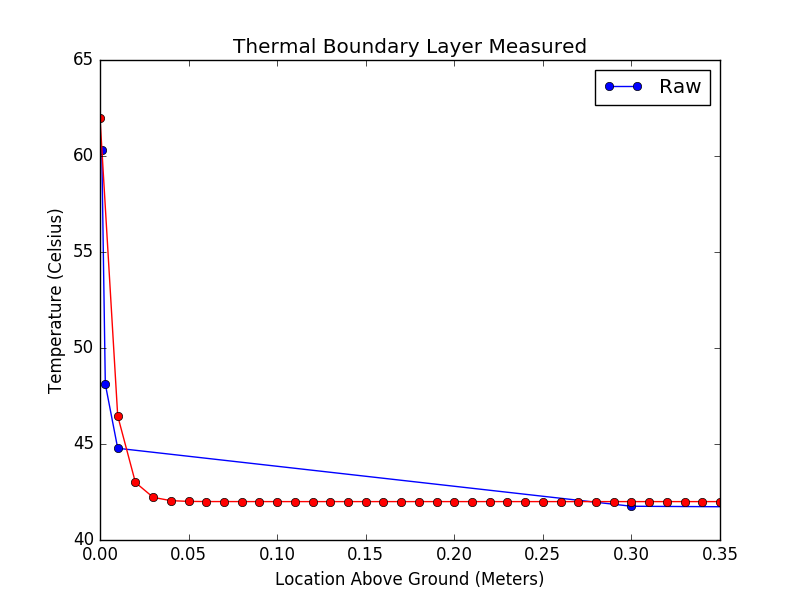
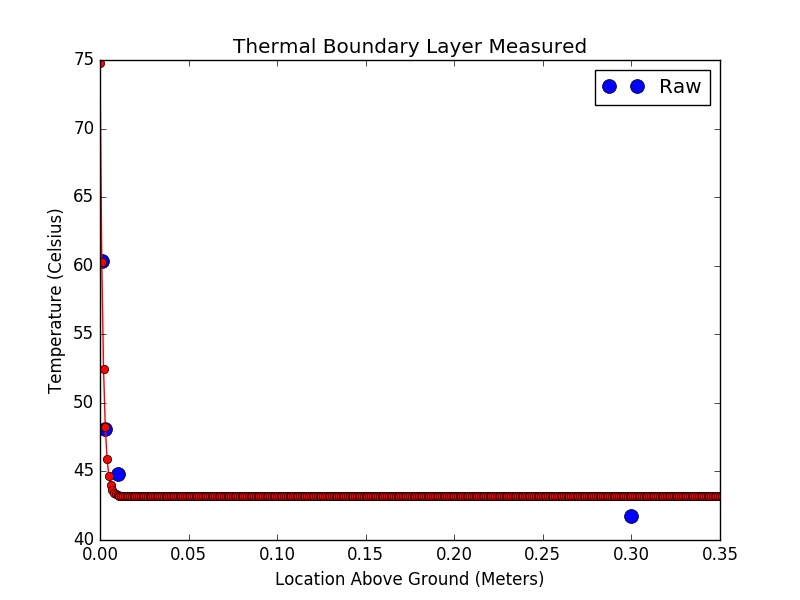
well, thats that

Changed region(s): [[0.0938, 0.18, 0.9062, 0.87], [0.75, 0.12, 0.8125, 0.15], [0.0938, 0.09, 0.125, 0.12]]

diff --git a/disputatio/routines/thermal_boundary_layer/zoom.py b/disputatio/routines/thermal_boundary_layer/zoom.py
@@ -19,47 +19,56 @@ def read_dat():
         values = line.split("\t")
         values = line.split("\t")
         x.append(float(values[0]))
-        print values[1].split("\n")[0]
+        #print values[1].split("\n")[0]
         t.append(float(values[1].split("\n")[0]))
     f.close()
     
     return x,t
 
-def e(x):
-    c = 150.0
-    exxp = 42+20*np.exp(-np.array(x)*c)
-    return exxp
+def e(x, a, b, c):
+    return a * np.exp(-b * x) + c
+
+#def e(x):
+#    c = 240.0
+#    exxp = 42+30*np.exp(-np.array(x)*c)
+#    return exxp
 
 #
 #
 #
 def plot_raw(x,t):
-    mx = 5
+    mx = 4
     order = 4
-    print x[0:mx],t[0:mx]
-    pp = np.poly1d(np.polyfit(x[0:mx],t[0:mx],order))
+    print x[0:mx]
+    print t[0:mx]
+    #pp = np.poly1d(np.polyfit(x[0:mx],t[0:mx],order))
     xx = np.arange(0,x[mx],.001)
+
+    #
+    # find ideal exp coefficients
+    #
+    from scipy.optimize import curve_fit
+    popt, pcov = curve_fit(e, x[0:mx], t[0:mx])
+
+    print popt
 
     #log_lst = np.log(lst)
     #print log_lst
     plt.subplot(1, 1, 1)
-    plt.plot(x,t, 'ko-',color='blue',label='Raw')
+    plt.plot(x,t, 'ko',color='blue',label='Raw',markersize=10)
     plt.title('Thermal Boundary Layer Measured')
     plt.xlabel('Location Above Ground (Meters)')
     plt.ylabel('Temperature (Celsius)')
     plt.legend()
 
-    full=1
-
-    if(full):
-        plt.xlim((0,.35))
-        plt.ylim((40,65))
-    else:
-        plt.xlim((0,2.35))
-        plt.ylim((35,65))
+    plt.xlim((0,.35))
+    plt.ylim((40,75))
         
+    #
+    # http://docs.scipy.org/doc/scipy/reference/generated/scipy.optimize.curve_fit.html
+    #
     # plot exponential
-    plt.plot(xx,e(xx), 'ko-',color='red',label='exponential')
+    plt.plot(xx,e(xx,popt[0],popt[1],popt[2]), 'ko-', color='red',label='exponential')
 
     # plot polynomial:
     #plt.plot(xx,pp(xx), 'ko-',color='red',label='fit')
@@ -69,7 +78,13 @@ def plot_raw(x,t):
     #
     #plt.show()
     plt.savefig('fit_zoomed.png')
-    print 'Peak velocity modelled is: ',e(0)
+
+    # unzoom
+    plt.xlim((0,2.35))
+    plt.savefig('fit.png')
+
+    print 'Peak velocity modelled is: ',e(0,popt[0],popt[1],popt[2])
+    print 'Gradient is: ', e(0,popt[0],popt[1],popt[2])-t[-1]
 
 def main():
     # my code here
